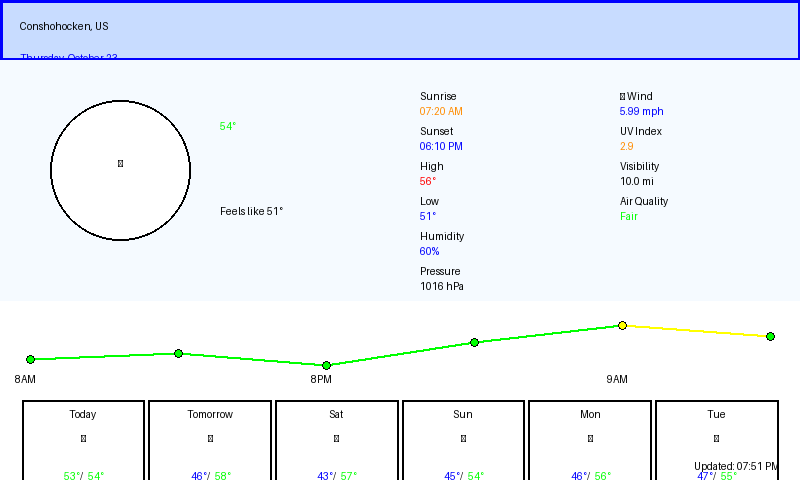
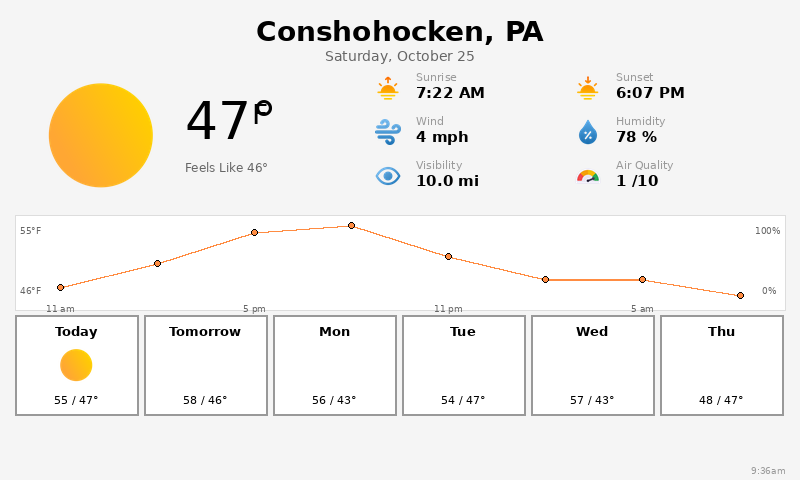
changed the font to Inter

diff --git a/weather_rendered.html b/weather_rendered.html
@@ -11,7 +11,7 @@
         <!-- Header Section - Centered -->
         <div class="header">
             <div class="location">Conshohocken, PA</div>
-            <div class="date">Thursday, October 23</div>
+            <div class="date">Saturday, October 25</div>
         </div>
 
         <!-- Main Current Weather Section -->
@@ -318,7 +318,7 @@
         </div>
 
         <!-- Footer -->
-        <div class="footer">10:29PM</div>
+        <div class="footer">9:41AM</div>
     </div>
 </body>
 </html>

diff --git a/weather_display_pil.py b/weather_display_pil.py
@@ -23,27 +23,42 @@ class WeatherDisplay:
         self.width = self.display.width
         self.height = self.display.height
 
-        # Colors - use grayscale for better e-ink rendering
+        # Colors - pure black and white for e-ink
         self.BLACK = (0, 0, 0)
         self.WHITE = (255, 255, 255)
-        self.GRAY_LIGHT = (245, 245, 245)
-        self.GRAY_MID = (153, 153, 153)
-        self.GRAY_DARK = (102, 102, 102)
         self.BORDER = (221, 221, 221)
 
-        # Try to load fonts
+        # Try to load Inter fonts (fallback to DejaVu if not available)
         try:
-            self.font_location = ImageFont.truetype("/usr/share/fonts/truetype/dejavu/DejaVuSans-Bold.ttf", 28)
-            self.font_date = ImageFont.truetype("/usr/share/fonts/truetype/dejavu/DejaVuSans.ttf", 14)
-            self.font_temp_large = ImageFont.truetype("/usr/share/fonts/truetype/dejavu/DejaVuSans.ttf", 52)
-            self.font_temp_unit = ImageFont.truetype("/usr/share/fonts/truetype/dejavu/DejaVuSans.ttf", 28)
-            self.font_feels = ImageFont.truetype("/usr/share/fonts/truetype/dejavu/DejaVuSans.ttf", 12)
-            self.font_detail_label = ImageFont.truetype("/usr/share/fonts/truetype/dejavu/DejaVuSans.ttf", 11)
-            self.font_detail_value = ImageFont.truetype("/usr/share/fonts/truetype/dejavu/DejaVuSans-Bold.ttf", 15)
-            self.font_forecast_day = ImageFont.truetype("/usr/share/fonts/truetype/dejavu/DejaVuSans-Bold.ttf", 13)
-            self.font_forecast_temp = ImageFont.truetype("/usr/share/fonts/truetype/dejavu/DejaVuSans.ttf", 11)
-            self.font_axis = ImageFont.truetype("/usr/share/fonts/truetype/dejavu/DejaVuSans.ttf", 9)
-            self.font_footer = ImageFont.truetype("/usr/share/fonts/truetype/dejavu/DejaVuSans.ttf", 9)
+            # Try Inter first
+            self.font_location = ImageFont.truetype("/usr/share/fonts/truetype/inter/Inter-Bold.ttf", 32)
+            self.font_date = ImageFont.truetype("/usr/share/fonts/truetype/inter/Inter-Regular.ttf", 14)
+            self.font_temp_large = ImageFont.truetype("/usr/share/fonts/truetype/inter/Inter-Regular.ttf", 72)
+            self.font_temp_unit = ImageFont.truetype("/usr/share/fonts/truetype/inter/Inter-Regular.ttf", 32)
+            self.font_feels = ImageFont.truetype("/usr/share/fonts/truetype/inter/Inter-Regular.ttf", 12)
+            self.font_detail_label = ImageFont.truetype("/usr/share/fonts/truetype/inter/Inter-Regular.ttf", 11)
+            self.font_detail_value = ImageFont.truetype("/usr/share/fonts/truetype/inter/Inter-Bold.ttf", 15)
+            self.font_forecast_day = ImageFont.truetype("/usr/share/fonts/truetype/inter/Inter-Bold.ttf", 14)
+            self.font_forecast_temp = ImageFont.truetype("/usr/share/fonts/truetype/inter/Inter-Medium.ttf", 12)
+            self.font_axis = ImageFont.truetype("/usr/share/fonts/truetype/inter/Inter-Regular.ttf", 9)
+            self.font_footer = ImageFont.truetype("/usr/share/fonts/truetype/inter/Inter-Regular.ttf", 9)
+        except:
+            try:
+                # Fallback to DejaVu
+                self.font_location = ImageFont.truetype("/usr/share/fonts/truetype/dejavu/DejaVuSans-Bold.ttf", 32)
+                self.font_date = ImageFont.truetype("/usr/share/fonts/truetype/dejavu/DejaVuSans.ttf", 14)
+                self.font_temp_large = ImageFont.truetype("/usr/share/fonts/truetype/dejavu/DejaVuSans.ttf", 72)
+                self.font_temp_unit = ImageFont.truetype("/usr/share/fonts/truetype/dejavu/DejaVuSans.ttf", 32)
+                self.font_feels = ImageFont.truetype("/usr/share/fonts/truetype/dejavu/DejaVuSans.ttf", 12)
+                self.font_detail_label = ImageFont.truetype("/usr/share/fonts/truetype/dejavu/DejaVuSans.ttf", 11)
+                self.font_detail_value = ImageFont.truetype("/usr/share/fonts/truetype/dejavu/DejaVuSans-Bold.ttf", 15)
+                self.font_forecast_day = ImageFont.truetype("/usr/share/fonts/truetype/dejavu/DejaVuSans-Bold.ttf", 14)
+                self.font_forecast_temp = ImageFont.truetype("/usr/share/fonts/truetype/dejavu/DejaVuSans.ttf", 12)
+                self.font_axis = ImageFont.truetype("/usr/share/fonts/truetype/dejavu/DejaVuSans.ttf", 9)
+                self.font_footer = ImageFont.truetype("/usr/share/fonts/truetype/dejavu/DejaVuSans.ttf", 9)
+            except Exception as e:
+                print(f"Warning: Could not load fonts: {e}")
+                print("Using default fonts")
         except Exception as e:
             print(f"Warning: Could not load fonts: {e}")
             print("Using default fonts")
@@ -93,32 +108,34 @@ class WeatherDisplay:
         bbox = draw.textbbox((0, 0), current_date, font=self.font_date)
         text_width = bbox[2] - bbox[0]
         x = (self.width - text_width) // 2
-        draw.text((x, 48), current_date, font=self.font_date, fill=self.GRAY_DARK)
+        draw.text((x, 52), current_date, font=self.font_date, fill=self.BLACK)
 
-    def draw_current_weather(self, img, draw, weather_data, y_start=70):
+    def draw_current_weather(self, img, draw, weather_data, y_start=75):
         """Draw current weather section with icon and temperature"""
         current = weather_data['current']
 
-        # Left side - Large icon (130x130)
-        icon = self.load_icon(current['icon'], 130)
-        img.paste(icon, (35, y_start), icon if icon.mode == 'RGBA' else None)
+        # Left side - Larger icon (160x160)
+        icon = self.load_icon(current['icon'], 160)
+        img.paste(icon, (25, y_start - 10), icon if icon.mode == 'RGBA' else None)
 
         # Temperature next to icon
-        temp_x = 185
-        temp_y = y_start + 20
+        temp_x = 205
+        temp_y = y_start
 
-        # Main temperature
-        temp_text = f"{current['temperature']}°"
+        # Main temperature (just the number)
+        temp_text = f"{current['temperature']}"
         draw.text((temp_x, temp_y), temp_text, font=self.font_temp_large, fill=self.BLACK)
 
-        # Unit (smaller, superscript-ish)
+        # Get the width of the temperature number to position degree symbol
         bbox = draw.textbbox((temp_x, temp_y), temp_text, font=self.font_temp_large)
-        unit_x = bbox[2] - 25  # Position after temperature
-        draw.text((unit_x, temp_y + 8), "F", font=self.font_temp_unit, fill=self.BLACK)
+        degree_x = bbox[2] + 2
+
+        # Degree symbol and F (proper sizing)
+        draw.text((degree_x, temp_y), "°F", font=self.font_temp_unit, fill=self.BLACK)
 
         # Feels like
         feels_text = f"Feels Like {current['feels_like']}°"
-        draw.text((temp_x, temp_y + 70), feels_text, font=self.font_feels, fill=self.GRAY_DARK)
+        draw.text((temp_x, temp_y + 90), feels_text, font=self.font_feels, fill=self.BLACK)
 
     def draw_details(self, img, draw, weather_data, y_start=70):
         """Draw two columns of weather details with icons"""
@@ -151,7 +168,7 @@ class WeatherDisplay:
             icon = self.load_icon(icon_name, 26)
             img.paste(icon, (col1_x, y + 5), icon if icon.mode == 'RGBA' else None)
             # Draw label and value
-            draw.text((col1_x + 41, y), label, font=self.font_detail_label, fill=self.GRAY_MID)
+            draw.text((col1_x + 41, y), label, font=self.font_detail_label, fill=self.BLACK)
             draw.text((col1_x + 41, y + 14), value, font=self.font_detail_value, fill=self.BLACK)
 
         # Draw column 2
@@ -161,7 +178,7 @@ class WeatherDisplay:
             icon = self.load_icon(icon_name, 26)
             img.paste(icon, (col2_x, y + 5), icon if icon.mode == 'RGBA' else None)
             # Draw label and value
-            draw.text((col2_x + 41, y), label, font=self.font_detail_label, fill=self.GRAY_MID)
+            draw.text((col2_x + 41, y), label, font=self.font_detail_label, fill=self.BLACK)
             draw.text((col2_x + 41, y + 14), value, font=self.font_detail_value, fill=self.BLACK)
 
     def draw_graph_section(self, draw, hourly_data, temp_min, temp_max, y_start=215):
@@ -180,12 +197,12 @@ class WeatherDisplay:
                       fill=self.WHITE, outline=self.BORDER, width=1)
 
         # Y-axis labels (left - temperature)
-        draw.text((20, graph_y), f"{temp_max}°F", font=self.font_axis, fill=self.GRAY_DARK)
-        draw.text((20, graph_y + graph_height - 10), f"{temp_min}°F", font=self.font_axis, fill=self.GRAY_DARK)
+        draw.text((20, graph_y), f"{temp_max}°F", font=self.font_axis, fill=self.BLACK)
+        draw.text((20, graph_y + graph_height - 10), f"{temp_min}°F", font=self.font_axis, fill=self.BLACK)
 
         # Y-axis labels (right - rain %)
-        draw.text((self.width - 45, graph_y), "100%", font=self.font_axis, fill=self.GRAY_DARK)
-        draw.text((self.width - 38, graph_y + graph_height - 10), "0%", font=self.font_axis, fill=self.GRAY_DARK)
+        draw.text((self.width - 45, graph_y), "100%", font=self.font_axis, fill=self.BLACK)
+        draw.text((self.width - 38, graph_y + graph_height - 10), "0%", font=self.font_axis, fill=self.BLACK)
 
         # Calculate points for temperature line
         temps = [h['temp'] for h in hourly_data]
@@ -219,7 +236,7 @@ class WeatherDisplay:
                 bbox = draw.textbbox((0, 0), time_text, font=self.font_axis)
                 text_width = bbox[2] - bbox[0]
                 draw.text((int(px - text_width // 2), label_y), time_text,
-                         font=self.font_axis, fill=self.GRAY_DARK)
+                         font=self.font_axis, fill=self.BLACK)
 
     def draw_forecast(self, img, draw, forecast_data, y_start=315):
         """Draw 7-day forecast cards"""
@@ -246,26 +263,32 @@ class WeatherDisplay:
         """Draw a single forecast card"""
         # Card background with border
         draw.rectangle([x, y, x + width, y + height],
-                      fill=self.WHITE, outline=self.GRAY_MID, width=2)
+                      fill=self.WHITE, outline=self.BLACK, width=2)
 
         # Day name (centered)
         day_name = day_data['day_name']
         bbox = draw.textbbox((0, 0), day_name, font=self.font_forecast_day)
         text_width = bbox[2] - bbox[0]
-        draw.text((x + (width - text_width) // 2, y + 8), day_name,
+        draw.text((x + (width - text_width) // 2, y + 10), day_name,
                  font=self.font_forecast_day, fill=self.BLACK)
 
-        # Weather icon (centered, 40x40)
-        icon = self.load_icon(day_data['icon'], 40)
-        icon_x = x + (width - 40) // 2
-        icon_y = y + 30
-        img.paste(icon, (icon_x, icon_y), icon if icon.mode == 'RGBA' else None)
+        # Weather icon (centered, 50x50 for better visibility)
+        icon_size = 50
+        icon = self.load_icon(day_data['icon'], icon_size)
+        icon_x = x + (width - icon_size) // 2
+        icon_y = y + 32
+
+        # Ensure icon pastes correctly
+        if icon and icon.mode == 'RGBA':
+            img.paste(icon, (icon_x, icon_y), icon)
+        else:
+            img.paste(icon, (icon_x, icon_y))
 
         # Temperature range (centered)
         temp_text = f"{day_data['max_temp']} / {day_data['min_temp']}°"
         bbox = draw.textbbox((0, 0), temp_text, font=self.font_forecast_temp)
         text_width = bbox[2] - bbox[0]
-        draw.text((x + (width - text_width) // 2, y + 78), temp_text,
+        draw.text((x + (width - text_width) // 2, y + 85), temp_text,
                  font=self.font_forecast_temp, fill=self.BLACK)
 
     def prepare_template_data(self, weather_data):
@@ -321,8 +344,8 @@ class WeatherDisplay:
                 print("Could not prepare template data")
                 return
 
-            # Create image with light gray background
-            img = Image.new("RGB", (self.width, self.height), self.GRAY_LIGHT)
+            # Create image with pure white background
+            img = Image.new("RGB", (self.width, self.height), self.WHITE)
             draw = ImageDraw.Draw(img)
 
             # Draw all sections
@@ -337,7 +360,7 @@ class WeatherDisplay:
             bbox = draw.textbbox((0, 0), footer_text, font=self.font_footer)
             text_width = bbox[2] - bbox[0]
             draw.text((self.width - text_width - 15, self.height - 15), footer_text,
-                     font=self.font_footer, fill=self.GRAY_MID)
+                     font=self.font_footer, fill=self.BLACK)
 
             # Save for debugging
             img.save('weather_display.png')
